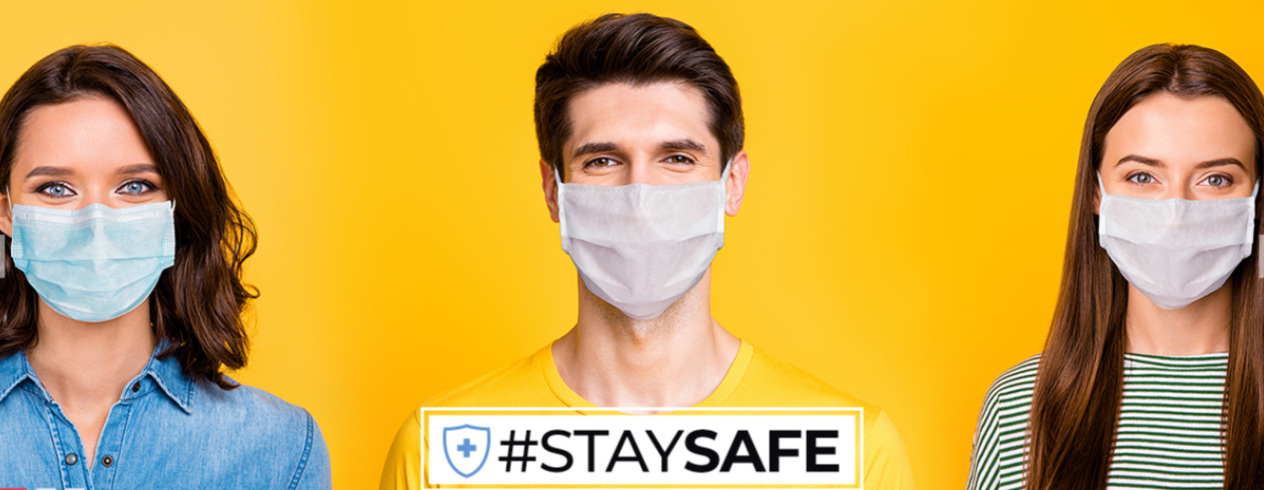
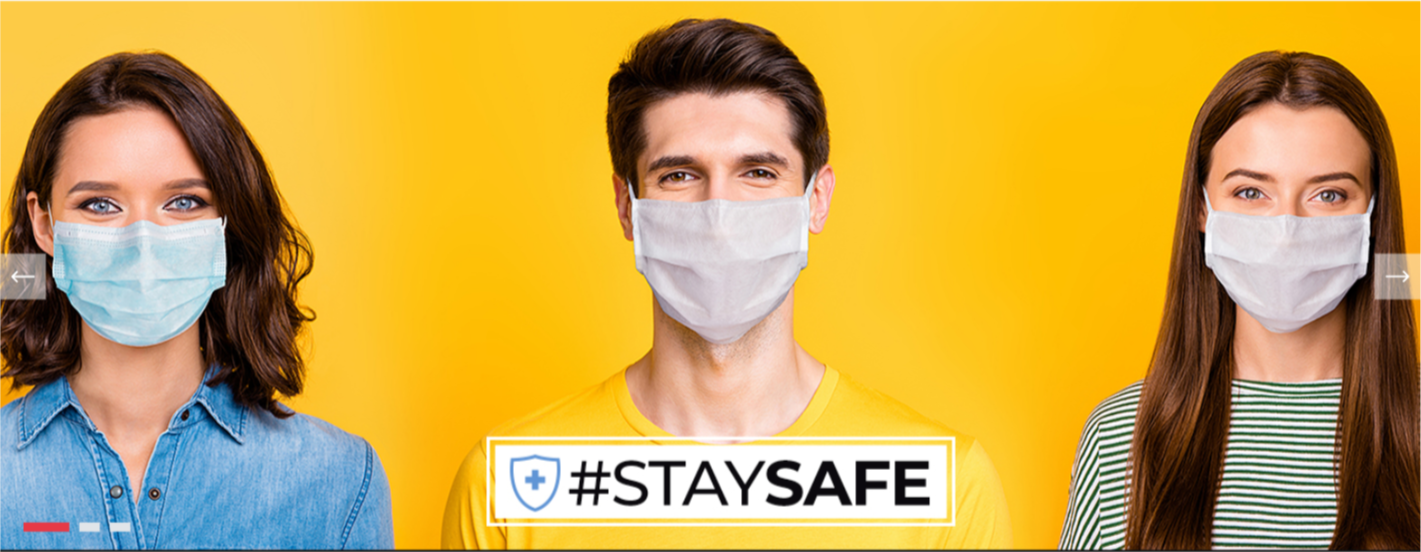
Changes

diff --git a/index.html b/index.html
@@ -13,21 +13,20 @@
     <title>Number One</title>
 </head>
 <body>
-    <nav class="navbar navbar-expand-lg navbar-dark nav-dark">
-        <a class="navbar-brand" href="#">Navbar</a>
-        <button class="navbar-toggler" type="button" data-toggle="collapse" data-target="#navbarSupportedContent" aria-controls="navbarSupportedContent" aria-expanded="false" aria-label="Toggle navigation">
-          <span class="navbar-toggler-icon"></span>
-        </button>
-        <div class="collapse navbar-collapse" id="navbarSupportedContent">
-            <a href="">Вход</a>
-            <a href="">Регистрация</a>
-            <a href="">English</a>
-            <a href=""><img src="images/facebook.svg" alt=""></a>
-            <a href=""><img src="images/instagram.svg" alt=""></a>
+    <nav class="navbar navbar-light nav-dark justify-content-between">
+        <div class='container'>
+            <a class="navbar-brand bg-white">Navbar</a>
+            <form class="form-inline navbar-links">
+                <a href="">Вход</a>
+                <a href="">Регистрация</a>
+                <a href="">English</a>
+                <a href=""><img src="images/facebook.svg" alt=""></a>
+                <a href=""><img src="images/instagram.svg" alt=""></a>
+            </form>
         </div>
     </nav>
-
     <nav class="navbar navbar-expand-lg navbar-dark nav-light">
+        <div class='container'>
         <a class="navbar-brand" href="#">NUMBER ONE ADVERTISING</a>
         <button class="navbar-toggler" type="button" data-toggle="collapse" data-target="#navbarSupportedContent" aria-controls="navbarSupportedContent" aria-expanded="false" aria-label="Toggle navigation">
           <span class="navbar-toggler-icon"></span>
@@ -53,6 +52,7 @@
                     <a class="nav-link" href="#">Контакти</a>
                 </li>
             </ul>
+        </div>
         </div>
     </nav>
 
@@ -82,25 +82,24 @@
     <section id="artboard">
         <div class="container">
             <div class="row">
-                <div class="col-xl-12 main">
-                </div>
+                <img src="images/1.png" class='img-fluid'/>
             </div>
 
             <div class="row">
-                <div class="col-xl-4"><img class="board-img" src="images/store.png">
+                <div class="col-xl-4"><img class="board-img img-fluid" src="images/store.png">
+                    <img class="board-arrow rotateimg180" src="images/down-arrow.svg">
                     <p class="txt">Разгледай</p>
                     <h5 class="header-name">Налични на склад</h5>
-                    <img class="board-arrow rotateimg180" src="images/down-arrow.svg">
                 </div>
-                <div class="col-xl-4"><img class="board-img" src="images/sale.png">
+                <div class="col-xl-4"><img class="board-img img-fluid" src="images/sale.png">
+                    <img class="board-arrow rotateimg180" src="images/down-arrow.svg">
                     <p class="txt">Разгледай</p>
                     <h5 class="header-name">Разпродажба</h5>
-                    <img class="board-arrow rotateimg180" src="images/down-arrow.svg">
                 </div>
-                <div class="col-xl-4"><img class="board-img" src="images/promotions.png">
+                <div class="col-xl-4"><img class="board-img img-fluid" src="images/promotions.png">
+                    <img class="board-arrow rotateimg180" src="images/down-arrow.svg">
                     <p class="txt">Разгледай</p>
                     <h5 class="header-name">Промоции</h5>
-                    <img class="board-arrow rotateimg180" src="images/down-arrow.svg">
                 </div>
             </div>
 
@@ -124,7 +123,9 @@
                 </div>
                 <div class="col-sm-3">
                     <div class="card">
-                        <p class="stick-promo"> ПРОМОЦИЯ</p>
+                        <div class="stickers">
+                            <p class="stick-promo"> ПРОМОЦИЯ</p>
+                        </div>
                         <img class="card-img-top" src="images/cap-caper.png" alt="Card image cap">
                         <div class="card-body">
                             <h5 class="card-title">Шапка  панела</h5>
@@ -138,7 +139,9 @@
                 </div>
                 <div class="col-sm-3">
                     <div class="card">
-                        <p class="stick-new">HOB</p>
+                        <div class="stickers">
+                            <p class="stick-new">HOB</p>
+                        </div>
                         <img class="card-img-top" src="images/tshirt.png" alt="Card image cap">
                         <div class="card-body">
                             <h5 class="card-title">Шапка  панела</h5>

diff --git a/css/styles.css b/css/styles.css
@@ -22,6 +22,9 @@
 	height: 30px;
 	color: #e63946;
 }
+.navbar-links a{
+	margin: 0px 5px;
+}
 /* ====================== ARTBOARD ====================== */
 #artboard {
 	background-color: #f8f8f8;
@@ -60,6 +63,9 @@
 	padding: 20px;
 	background-color: #a8dadc;
 	box-shadow: 0px 0px 10px #00000029;
+	position:relative;
+	left:280px;
+	bottom:37px;
 }
 .rotateimg180 {
 	-webkit-transform: rotate(180deg);
@@ -74,6 +80,7 @@
 	letter-spacing: 2.4px;
 	color: #2c3e50;
 	margin-bottom: 10px;
+	margin-top:-50px;
 }
 .header-name {
 	font-weight: bold;
@@ -129,6 +136,9 @@
 }
 .stickers {
 	float: left;
+	display:flex;
+	margin-top:20px;
+	margin-left:20px;
 }
 .stick-new {
 	padding: 9px 14px;
